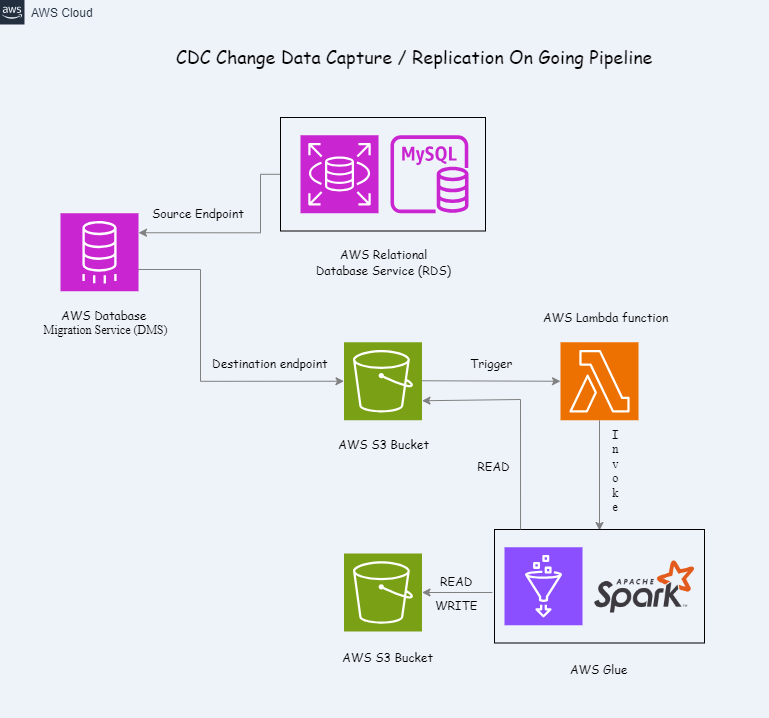
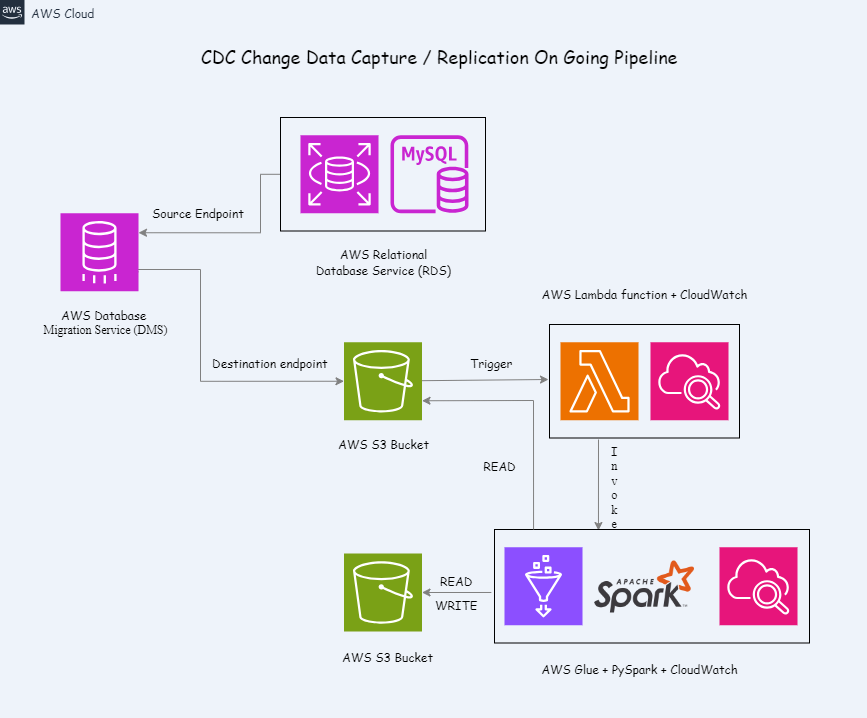
update

diff --git a/README.md b/README.md
@@ -1,10 +1,10 @@
-# Change Data Capture (CDC) / Replication On Going pipeline
+# Change Data Capture (CDC) / Replication On Going pipeline with AWS and PySpark
 
 
-## Requirement
+## Requirements
 
 The end goal of this project is to have a fully functional CDC pipeline.
-The pipeline will cover two phases:
+The pipeline will cover two phases or modes:
 1. Full Load to replicate the initial database
 2. CDC / Replication on Going to process database changes
 
@@ -21,6 +21,7 @@ The main essence is that it will create a data lake out of this database and any
 
 
 As you can see in the architecture, there are a few things we need to set up the cloud infrastructure to run this project.
+For this, I used some AWS cloud services such as RDS, DMS, S3, Lambda and Glue for PySpark job
 
 1. RDS MySQL database instance for Source Endpoint
 2. Temporary S3 Bucket for temporary Destination / target Endpoint
@@ -29,7 +30,121 @@ As you can see in the architecture, there are a few things we need to set up the
 5. DMS writes data to the Destination Endpoint - Temp S3 bucket
 6. Lambda function with a configured trigger which will be invoked when a new data file lands in the Temp S3 bucket
 7. Glue PySpark job triggered by the Lambda function to process / transform the data and load / write it in the final destination S3 Bucket
-8. Final S3 Bucket for the final destination - data lake
+8. Set up IAM roles to allow access between services: S3 - Lambda - Glue - CloudWatch
+9. Set up CloudWatch to have access to Lambda and Glue PySpark job logs
+10. Final S3 Bucket for the final destination - data lake
 
 
 ## Implementation
+
+1. Create a RDS MySQL database instance, connect it with the MySQL workbench on the local machine and populate it with data (dump data) using SQL commands executed from the MySQL workbench (see dump file). After dumping the data in the MySQL db, run a simple SQL query to check that everything is ok. The RDS MySQL database instance will be the source endpoint for the DMS.
+
+2. Create the temporary S3 bucket. This will be the destination or target endpoint for the DMS service, where the date will be loaded temporally to be transformed with the Glue PySpark job, before being loaded in the final S3 bucket (data lake).
+
+3. Create DMS replication instance and the two endpoints.
+
+4. Create DMS source endpoint (RDS -> DMS) and configure it with the RDS instance 
+
+5. Create DMS target endpoint (DMS -> S3) and configure it with the S3 Bucket
+
+6. Implement Lambda function and configure the triggering and invoking mechanism if any file lands inside the Temp S3 bucket. The Lambda will get the name of the new update data file that triggered it and it will pass it to the Glue PySpark for further processing the changes.
+
+Lambda code:
+
+```python
+import json
+import boto3
+
+def lambda_handler(event, context):
+    
+    
+    bucketName = event["Records"][0]["s3"]["bucket"]["name"]
+    fileName = event["Records"][0]["s3"]["object"]["key"]
+    
+    print(bucketName, fileName)
+        
+    glue = boto3.client('glue')
+
+    response = glue.start_job_run(
+        JobName = 'glueCDC-pyspark',
+        Arguments = {
+            '--s3_target_path_key': fileName,
+            '--s3_target_path_bucket': bucketName
+        } 
+    )
+    
+    return {
+        'statusCode': 200,
+        'body': json.dumps('Hello from Lambda!')
+    }
+```
+
+7. Create the Glue PySpark job which will be invoked by the Lambda function to transform the data and load / write it in the final destination S3 Bucket. Use "boto3" Python library to set up communication between Lambda and Glue PySpark job 
+
+Glue PySpark job
+
+```python
+from awsglue.utils import getResolvedOptions
+import sys
+from pyspark.sql.functions import when
+from pyspark.sql import SparkSession
+
+args = getResolvedOptions(sys.argv,['s3_target_path_key','s3_target_path_bucket'])
+bucket = args['s3_target_path_bucket']
+fileName = args['s3_target_path_key']
+
+print(bucket, fileName)
+
+spark = SparkSession.builder.appName("CDC").getOrCreate()
+inputFilePath = f"s3a://{bucket}/{fileName}"
+finalFilePath = f"s3a://cdc-output-pyspark/output"
+
+if "LOAD" in fileName:
+    fldf = spark.read.csv(inputFilePath)
+    fldf = fldf.withColumnRenamed("_c0","id").withColumnRenamed("_c1","FullName").withColumnRenamed("_c2","City")
+    fldf.write.mode("overwrite").csv(finalFilePath)
+else:
+    udf = spark.read.csv(inputFilePath)
+    udf = udf.withColumnRenamed("_c0","action").withColumnRenamed("_c1","id").withColumnRenamed("_c2","FullName").withColumnRenamed("_c3","City")
+    ffdf = spark.read.csv(finalFilePath)
+    ffdf = ffdf.withColumnRenamed("_c0","id").withColumnRenamed("_c1","FullName").withColumnRenamed("_c2","City")
+    
+    for row in udf.collect(): 
+      if row["action"] == 'U':
+        ffdf = ffdf.withColumn("FullName", when(ffdf["id"] == row["id"], row["FullName"]).otherwise(ffdf["FullName"]))      
+        ffdf = ffdf.withColumn("City", when(ffdf["id"] == row["id"], row["City"]).otherwise(ffdf["City"]))
+    
+      if row["action"] == 'I':
+        insertedRow = [list(row)[1:]]
+        columns = ['id', 'FullName', 'City']
+        newdf = spark.createDataFrame(insertedRow, columns)
+        ffdf = ffdf.union(newdf)
+    
+      if row["action"] == 'D':
+        ffdf = ffdf.filter(ffdf.id != row["id"])
+        
+    ffdf.write.mode("overwrite").csv(finalFilePath)   
+```
+
+8. Set up IAM roles to allow access between services: S3 - Lambda - Glue - CloudWatch
+
+9. Set up CloudWatch to have access to Lambda and Glue PySpark job logs
+
+10. Create final S3 Bucket for the final destination for the data - data lake
+
+
+## Test the CDC pipeline
+
+### 1. Test Full Load mode
+
+1. Dump some data in the RDS MySQL database
+2. This will trigger the DMS migration service which will replicate the data (Full Load at first CDC pipeline run) and load it in the Temp S3 Bucket.
+3. When the data file lands in the Temp S3 Bucket, it will trigger the Lambda function which will grab the file name and the bucket name and pass it to the Glue PySpark job and invoke it. Check the Lambda CloudWatch logs to see the results.
+4. The Glue PySpark job will check if the data is the full load (initial database) or new changes in the database -> at first run we are in the Full Load scenario, so it will simply replicate the initial database in the Final S3 Bucket. Check the Glue PySpark job CloudWatch logs for the results. Also, download the data file from the final S3 bucket and compere it with the initial database, should be the same.
+
+### 2. Test CDC / Replication On Going mode
+
+1. Dump some data changes in the RDS MySQL database (insert, delete, update, ...).
+2. This will trigger the DMS migration service which will replicate the data file with the changes made in the database and load it in the Temp S3 Bucket.
+3. When the data file lands in the Temp S3 Bucket, it will trigger the Lambda function which will grab the file name and the bucket name and pass it to the Glue PySpark job and invoke it. Check the Lambda CloudWatch logs to see the results.
+4. The Glue PySpark job will check if the data is the full load (initial database) or new changes in the database -> now we are in the CDC scenario, so it will process / transform the data (check the Glue code) and then append or compensate the modified data in the Final S3 Bucket data lake. Check the Glue PySpark job CloudWatch logs for the results. Also, download the data file from the final S3 bucket and compere it with the initial database, it should have all the changes.
